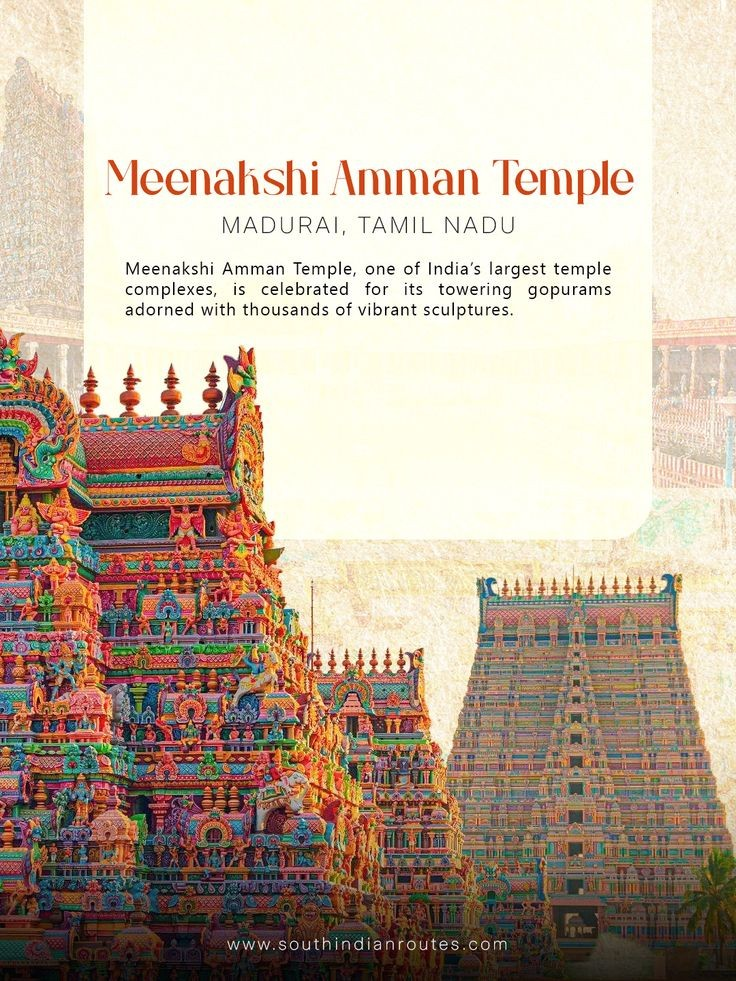
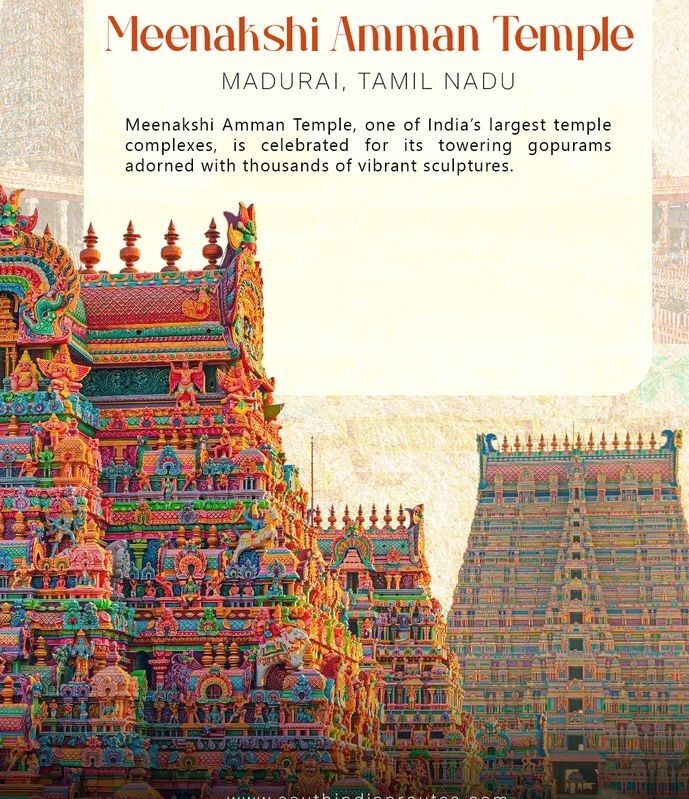
style/refactor: comprehensive UI layout fixes and folder updates across client

diff --git a/client/src/pages/TempleDetail.jsx b/client/src/pages/TempleDetail.jsx
@@ -156,16 +156,36 @@ const TempleDetail = () => {
                     {/* Immersive Content - 8 Cols */}
                     <div className="lg:col-span-8 space-y-20">
                         {/* High-Fidelity Gallery */}
-                        <div className="grid grid-cols-1 md:grid-cols-12 gap-6 h-[500px]">
-                            <motion.div
-                                initial={{ opacity: 0, scale: 0.95 }}
-                                animate={{ opacity: 1, scale: 1 }}
-                                className="md:col-span-8 h-full rounded-[40px] overflow-hidden shadow-2xl relative group"
-                            >
-                                <img src={temple.images[0]} alt={temple.name} className="w-full h-full object-cover transition-transform duration-1000 group-hover:scale-110 grayscale-[0.2] group-hover:grayscale-0" />
-                                <div className="absolute inset-0 bg-gradient-to-t from-black/20 to-transparent" />
-                            </motion.div>
-                            <div className="md:col-span-4 h-full flex flex-col gap-6">
+                        <div className="grid grid-cols-1 md:grid-cols-12 gap-6 min-h-[550px]">
+    <motion.div
+        initial={{ opacity: 0, scale: 0.95 }}
+        animate={{ opacity: 1, scale: 1 }}
+        className="md:col-span-8 bg-[#FDFBF7] rounded-[40px] overflow-hidden shadow-2xl flex flex-col justify-between group border border-cream-dark/30"
+    >
+        {/* TEXT AREA AT THE TOP */}
+        <div className="p-8 pb-4">
+            <h2 className="text-3xl font-black text-brown tracking-tight mb-1">
+                {temple.name}
+            </h2>
+            <p className="text-xs font-black uppercase tracking-widest text-primary mb-4">
+                {temple.location.city}, {temple.location.state}
+            </p>
+            <p className="text-sm font-medium text-brown/70 leading-relaxed line-clamp-3">
+                {temple.description}
+            </p>
+        </div>
+
+        {/* IMAGE AREA AT THE BOTTOM */}
+        <div className="w-full h-60 overflow-hidden mt-auto relative">
+            <img 
+                src={temple.images[0]} 
+                alt={temple.name} 
+                className="w-full h-full object-cover transition-transform duration-1000 group-hover:scale-110" 
+            />
+            <div className="absolute inset-0 bg-gradient-to-t from-black/10 to-transparent" />
+        </div>
+    </motion.div>
+                     <div className="md:col-span-4 h-full flex flex-col gap-6">
                                 <motion.div
                                     initial={{ opacity: 0, x: 20 }}
                                     animate={{ opacity: 1, x: 0 }}
@@ -205,7 +225,7 @@ const TempleDetail = () => {
                                         <span className="text-[10px] font-black uppercase tracking-widest tracking-widest">Verified Temple</span>
                                     </div>
                                 </div>
-                                <h1 className="text-5xl md:text-7xl font-black text-brown tracking-tighter leading-none">{temple.name}</h1>
+                                
 
                                 <div className="flex items-center gap-6 py-6 border-y border-cream-dark/50">
                                     <div className="flex items-center gap-4">
@@ -230,14 +250,7 @@ const TempleDetail = () => {
                                 </div>
                             </div>
 
-                            <div className="space-y-6">
-                                <h4 className="text-xs font-black uppercase tracking-[0.3em] text-primary">Temple Chronicles</h4>
-                                <div className="prose prose-stone max-w-none">
-                                    <p className="text-lg text-brown/70 leading-relaxed font-medium">
-                                        {temple.description}
-                                    </p>
-                                </div>
-                            </div>
+                        
 
                             {/* Facilities Hub */}
                             <div className="grid grid-cols-2 md:grid-cols-4 gap-6 pt-10">

diff --git a/client/src/components/TempleCard.jsx b/client/src/components/TempleCard.jsx
@@ -14,7 +14,7 @@ const TempleCard = ({ temple }) => {
             {/* Image Container with Premium Badge */}
             <div className="relative h-72 overflow-hidden">
                 <img
-                    src={temple.images[0] || "https://images.unsplash.com/photo-1544005313-94ddf0286df2"}
+                    src={temple.images[0] || 'https://images.unsplash.com/photo-1506744038136-46273834b3fb?ixlib=rb-4.0.3&ixid=M3wxMjA3fDB8MHxwaG90by1wYWdlfHx8fGVufDB8fHx8&auto=format&fit=crop&w=1170&q=80'}
                     alt={temple.name}
                     className="w-full h-full object-cover transition-transform duration-700 group-hover:scale-110 grayscale-[0.2] group-hover:grayscale-0"
                 />